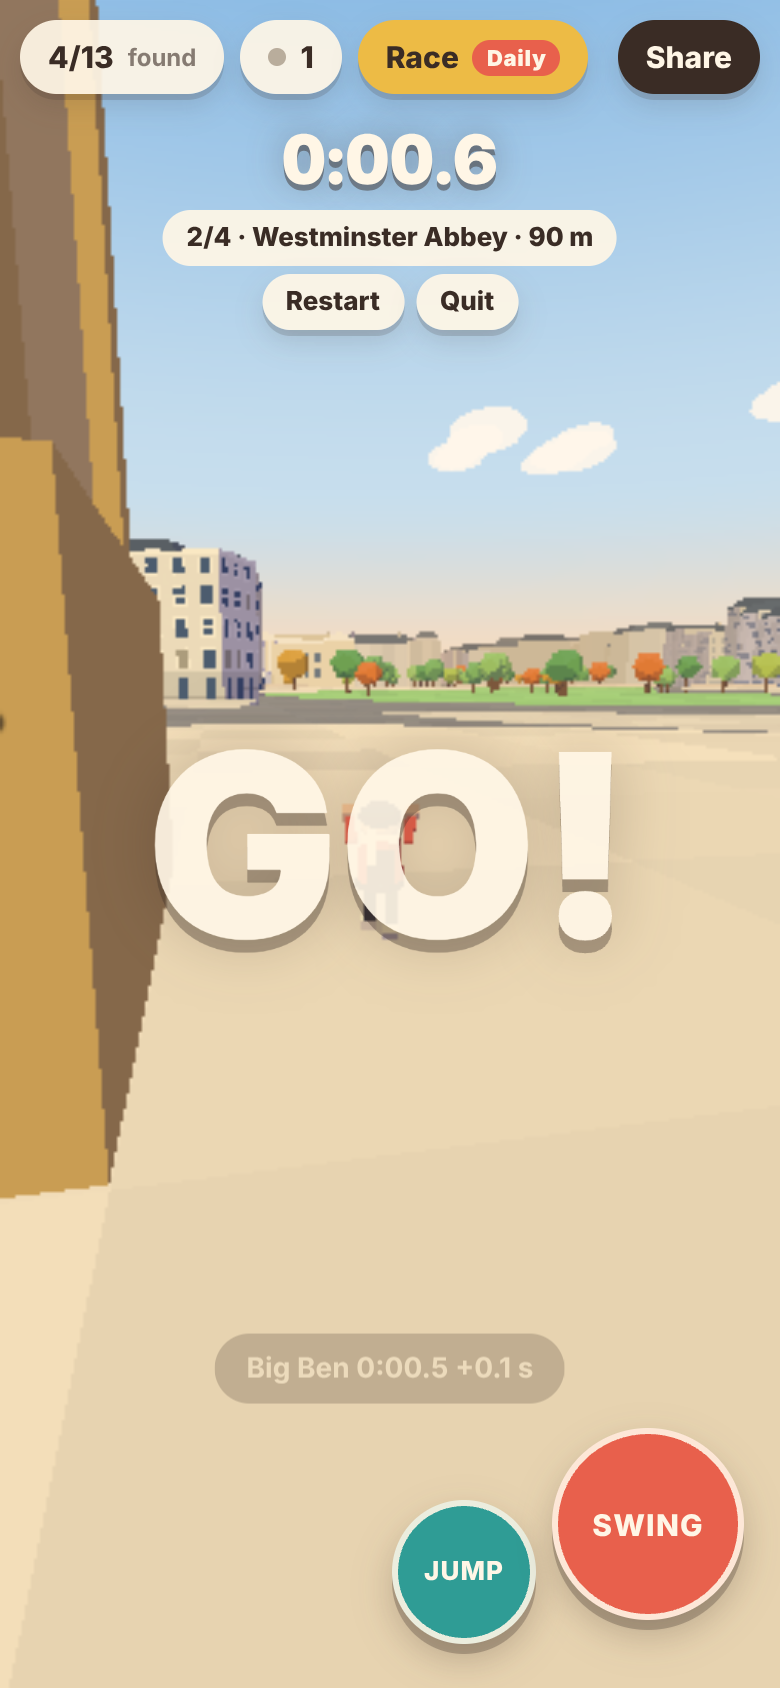
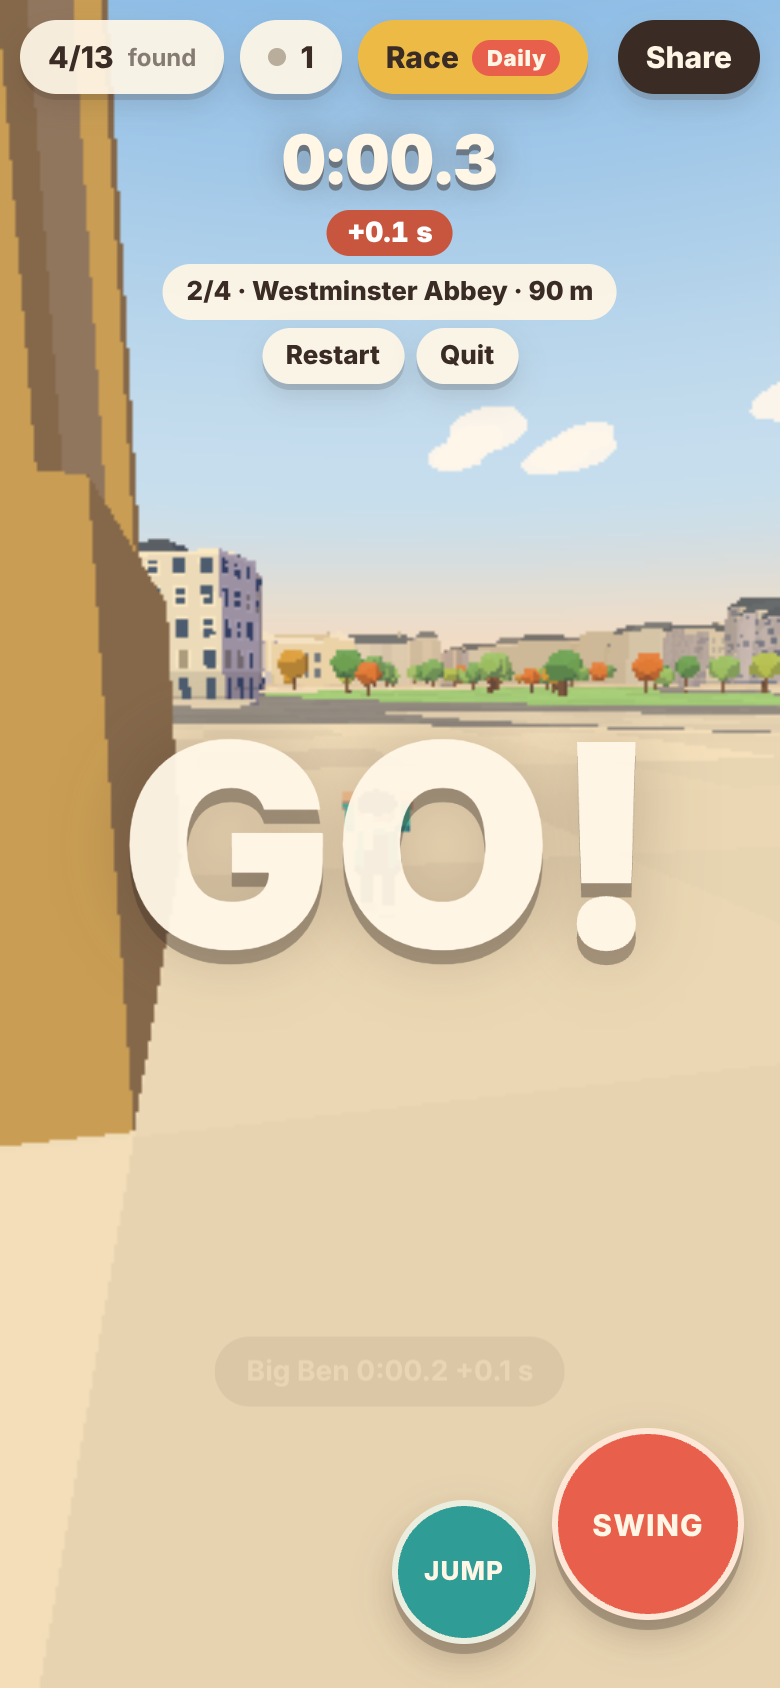
Race HUD: live gap to your best run's ghost between checkpoints
Claude-Session: https://claude.ai/code/session_01Fz3Rh2fy1XrMw2yfqxKkS2

diff --git a/src/main.ts b/src/main.ts
@@ -8,7 +8,7 @@ import { Sfx } from './audio';
 import { UI, store } from './ui';
 import { buildWorld } from './world/city';
 import { LANDMARKS, SPAWN, type Landmark } from './world/data';
-import { GhostRecorder, decodeGhost, encodeGhost, ghostPose, splitDelta, type Ghost, type GhostPose } from './ghost';
+import { GhostRecorder, decodeGhost, encodeGhost, ghostPose, liveDelta, splitDelta, type Ghost, type GhostPose } from './ghost';
 import { ROUTES, Race, dailyRoute, dailyShareText, formatTime, type Route } from './race';
 import { WATER_Y, groundHeight } from './world/river';
 import { parsePortal, portalRules } from './portal';
@@ -114,6 +114,7 @@ const ghostKey = (id: string) => `citywalk.ghost.${id}`;
 const ghostRec = new GhostRecorder();
 let ghost: Ghost | null = null;
 let splits: number[] = [];
+let gapClock = 0; // seconds until the HUD gap to the ghost refreshes
 const ghostNow: GhostPose = { x: 0, y: 0, z: 0, yaw: 0, anim: 0, speed: 0, anchor: null };
 function saveGhost(routeId: string, g: Ghost): void {
   // keep only today's daily ghost; yesterday's route will never be raced again
@@ -178,6 +179,8 @@ function startRace(route: Route): void {
   ghost = decodeGhost(store.get(ghostKey(route.id)));
   race.start(route);
   ui.raceHud(true);
+  ui.raceGap(null);
+  gapClock = 0;
   if (ui.tutorialActive) ui.endTutorial();
 }
 const openRaces = () => {
@@ -510,6 +513,13 @@ function tick(dt: number, now: number): void {
       const total = race.route!.stops.length;
       const d = Math.hypot(stop.x - player.pos.x, stop.z - player.pos.z);
       ui.raceTick(formatTime(race.time), `${race.next + 1}/${total} · ${stop.name} · ${Math.round(d / 5) * 5} m`);
+      // live gap to your best run, refreshed a few times a second so it reads steadily
+      gapClock -= dt;
+      if (gapClock <= 0) {
+        gapClock = 1 / CONFIG.ghost.liveHz;
+        const gap = ghost && race.state === 'running' ? liveDelta(ghost, race.next, player.pos.x, player.pos.z, race.time) : null;
+        ui.raceGap(gap === null ? null : signed(gap), gap !== null && gap >= 0);
+      }
     }
   }
   updateReticle();

diff --git a/tests/ghost.test.ts b/tests/ghost.test.ts
@@ -1,6 +1,6 @@
 import { describe, expect, it } from 'vitest';
 import { CONFIG } from '../src/config';
-import { GhostRecorder, decodeGhost, encodeGhost, ghostPose, splitDelta, type GhostPose } from '../src/ghost';
+import { GhostRecorder, decodeGhost, encodeGhost, ghostPose, liveDelta, splitDelta, type GhostPose } from '../src/ghost';
 
 const pose = (x: number, roped = false): GhostPose => ({ x, y: 1, z: -x, yaw: 0.5, anim: roped ? 4 : 2, speed: 11, anchor: roped ? { x, y: 30, z: 0 } : null });
 const blank = (): GhostPose => ({ x: 0, y: 0, z: 0, yaw: 0, anim: 0, speed: 0, anchor: null });
@@ -55,5 +55,23 @@ describe('race ghost', () => {
     expect(splitDelta(23, [12, 20], 1)).toBe(-3);
     expect(splitDelta(5, [12], 1)).toBeNull();
     expect(splitDelta(5, undefined, 0)).toBeNull();
+  });
+
+  it('gives a live gap between checkpoints: ahead (+), behind (-), none when off the path', () => {
+    // ghost: waits 1 s at the start, runs +x at 10 m/s to a checkpoint at x=50 (t=6), then +z
+    const rec = new GhostRecorder();
+    for (let t = 0; t <= 11.0001; t += 1 / 60) {
+      const x = t < 1 ? 0 : Math.min(50, (t - 1) * 10);
+      const z = t <= 6 ? 0 : (t - 6) * 10;
+      rec.record(t, { x, y: 0, z, yaw: 0, anim: 2, speed: 10, anchor: null });
+    }
+    const g = rec.finish(11, [6, 11])!;
+    expect(liveDelta(g, 0, 30, 0, 3)).toBeCloseTo(1, 1); // ghost reached x=30 at 4 s: you are 1 s up
+    expect(liveDelta(g, 0, 30, 0, 5.5)).toBeCloseTo(-1.5, 1); // 1.5 s down
+    expect(liveDelta(g, 0, 0, 0, 0.5)).toBeCloseTo(0, 5); // both still at the start: level
+    expect(liveDelta(g, 1, 50, 20, 9)).toBeCloseTo(-1, 1); // second leg uses the second window
+    expect(liveDelta(g, 0, 30, 500, 3)).toBeNull(); // nowhere near the ghost's path
+    expect(liveDelta(g, 2, 30, 0, 3)).toBeNull(); // past the last checkpoint
+    expect(liveDelta({ ...g, splits: undefined }, 0, 30, 0, 3)).toBeNull();
   });
 });

diff --git a/e2e/game.spec.ts b/e2e/game.spec.ts
@@ -197,6 +197,7 @@ test('race: pick a route, count down, take every checkpoint, finish and keep a p
   await page.waitForTimeout(800);
   expect((await page.evaluate(() => window.__citywalk.race)).time).toBeGreaterThan(t0);
   await expect(page.locator('#race-next')).toContainText('1/');
+  await expect(page.locator('#race-gap')).toBeHidden(); // no ghost yet on a first run
 
   // restart puts the clock back to a countdown
   await page.locator('#race-restart').tap();
@@ -231,12 +232,16 @@ test('race: pick a route, count down, take every checkpoint, finish and keep a p
   expect(g.loaded).toBe(true);
   expect(Math.hypot(g.x - -311, g.z - 222)).toBeGreaterThan(1); // starts at the route start, not at Big Ben
   await expect.poll(async () => (await page.evaluate(() => window.__citywalk.race)).state, { timeout: 10_000 }).toBe('running');
+  // the HUD shows a live gap to the ghost between checkpoints
+  await expect(page.locator('#race-gap')).toBeVisible();
+  await expect(page.locator('#race-gap')).toHaveText(/^[+−]\d+\.\d s$/);
   // first checkpoint toast compares with the ghost's split
   await page.evaluate(() => window.__citywalk.teleport(-311, 0.5, 222));
   await expect(page.locator('#toast')).toContainText(/[+−]\d+\.\d s/);
   await page.screenshot({ path: 'screenshots/race-ghost.png' });
   await page.locator('#race-quit').tap();
   await expect.poll(async () => (await page.evaluate(() => window.__citywalk.ghost)).visible).toBe(false);
+  await expect(page.locator('#race-gap')).toBeHidden();
   expect(errors).toEqual([]);
 });
 

diff --git a/src/ghost.ts b/src/ghost.ts
@@ -110,3 +110,27 @@ export function splitDelta(mine: number, ghostSplits: number[] | undefined, inde
   const g = ghostSplits?.[index];
   return g === undefined ? null : g - mine;
 }
+
+/**
+ * Live gap to the ghost between checkpoints: seconds ahead (+) or behind (-), or null when it
+ * can't be judged (no splits, or you are far off the ghost's path). Finds where the ghost
+ * passed closest to you on the current leg and compares the clocks there; when the ghost
+ * lingered in one spot, the moment nearest your own clock is used, so standing together reads 0.
+ */
+export function liveDelta(g: Ghost, leg: number, x: number, z: number, t: number): number | null {
+  if (!g.splits || leg < 0 || leg >= g.splits.length) return null;
+  const last = g.frames.length - 1;
+  const from = Math.max(0, Math.floor((leg > 0 ? g.splits[leg - 1] : 0) / g.dt));
+  const to = Math.min(last, Math.ceil(g.splits[leg] / g.dt));
+  if (to < from) return null;
+  const d2 = (i: number) => (g.frames[i][0] - x) ** 2 + (g.frames[i][2] - z) ** 2;
+  let min = Infinity;
+  for (let i = from; i <= to; i++) min = Math.min(min, d2(i));
+  if (Math.sqrt(min) > CONFIG.ghost.liveMaxOffPath) return null;
+  const tol = (Math.sqrt(min) + CONFIG.ghost.liveTieMetres) ** 2;
+  let best = -1;
+  for (let i = from; i <= to; i++) {
+    if (d2(i) <= tol && (best < 0 || Math.abs(i * g.dt - t) < Math.abs(best * g.dt - t))) best = i;
+  }
+  return best * g.dt - t;
+}

diff --git a/index.html b/index.html
@@ -169,6 +169,9 @@
         font-weight: 900; font-size: 34px; color: var(--cream); font-variant-numeric: tabular-nums; letter-spacing: 0.01em;
         text-shadow: 0 3px 0 rgba(58, 44, 37, 0.45), 0 0 18px rgba(58, 44, 37, 0.35);
       }
+      #race-gap { border-radius: 999px; padding: 3px 10px; font-weight: 900; font-size: 14px; font-variant-numeric: tabular-nums; color: #fff; background: #c8553d; }
+      #race-gap[hidden] { display: none; }
+      #race-gap.ahead { background: #3f8f5a; }
       #race-next { background: var(--paper); border-radius: 999px; padding: 6px 12px; font-weight: 800; font-size: 13px; white-space: nowrap; }
       #race-actions { display: flex; gap: 6px; pointer-events: auto; }
       #race-actions .chip { padding: 6px 12px; font-size: 13px; }
@@ -239,6 +242,7 @@
     </div>
     <div id="race-hud" hidden>
       <div id="race-time">0:00.0</div>
+      <div id="race-gap" hidden></div>
       <div id="race-next"></div>
       <div id="race-actions"><button class="chip" id="race-restart">Restart</button><button class="chip" id="race-quit">Quit</button></div>
     </div>

diff --git a/src/ui.ts b/src/ui.ts
@@ -251,11 +251,22 @@ export class UI {
     $('race-hud').hidden = !on;
     document.body.classList.toggle('racing', on);
     if (!on) $('countdown').hidden = true;
+    if (!on) this.raceGap(null);
   }
 
   raceTick(time: string, next: string): void {
     $('race-time').textContent = time;
     $('race-next').textContent = next;
+  }
+
+  /** Gap to your best run's ghost: null hides it. */
+  raceGap(text: string | null, ahead = false): void {
+    const el = $('race-gap');
+    el.hidden = text === null;
+    if (text === null) return;
+    el.textContent = text;
+    el.classList.toggle('ahead', ahead);
+    el.title = ahead ? 'Ahead of your best' : 'Behind your best';
   }
 
   countdown(n: number): void {

diff --git a/src/config.ts b/src/config.ts
@@ -87,6 +87,9 @@ export const CONFIG = {
     sampleHz: 10, // recorded poses per second of race time
     maxFrames: 6000, // runs longer than this (10 min at 10 Hz) keep no ghost
     opacity: 0.4,
+    liveHz: 4, // how often the HUD gap to the ghost refreshes
+    liveMaxOffPath: 60, // metres: further than this from the ghost's path, no live gap is shown
+    liveTieMetres: 0.3, // ghost poses this close to its nearest are treated as the same spot
   },
 
   // --- multiplayer --------------------------------------------------------

diff --git a/ROADMAP.md b/ROADMAP.md
@@ -8,8 +8,10 @@ Ordered by impact on getting real players and the first revenue.
 2. **itch.io launch** (awaiting approval — `DECISIONS.md`).
 3. **CrazyGames Basic Launch** (awaiting approval — `DECISIONS.md`). The no-external-links
    build is done (`npm run package:crazygames`).
-4. **Ghost polish** (done 2026-10-30: ghost of your best run + checkpoint splits): show the
-   ghost's lead/gap on the race HUD between checkpoints, and "share a ghost" for the daily.
+4. **Ghost polish**: live gap to the ghost on the race HUD (done 2026-10-31). Remaining:
+   "share a ghost" for the daily (needs a compact share code; link-free builds can't share it).
+5. **First-run polish**: make the first 60 seconds lead new players into a race (the
+   strongest hook so far) — smallest version: suggest the daily after the tutorial.
 
 ## Next
 

diff --git a/RELEASE.md b/RELEASE.md
@@ -31,6 +31,8 @@ anywhere except the existing GitHub Pages site.
 - Multiplayer over the public internet is unverified from the build environment; strict
   NATs without TURN fall back to solo.
 - Rope can pass the London Eye wheel and thin details (not solid by design).
+- The live gap to your ghost is an estimate (where your best run passed closest to you on the
+  current leg); it hides when you take a path more than 60 m from your best run's.
 - Holding Swing in big open plazas (Trafalgar Square, Buckingham Palace forecourt) finds
   nothing to grab; you run across them.
 - The CrazyGames build is solo only (no shareable room links there); multiplayer would need
